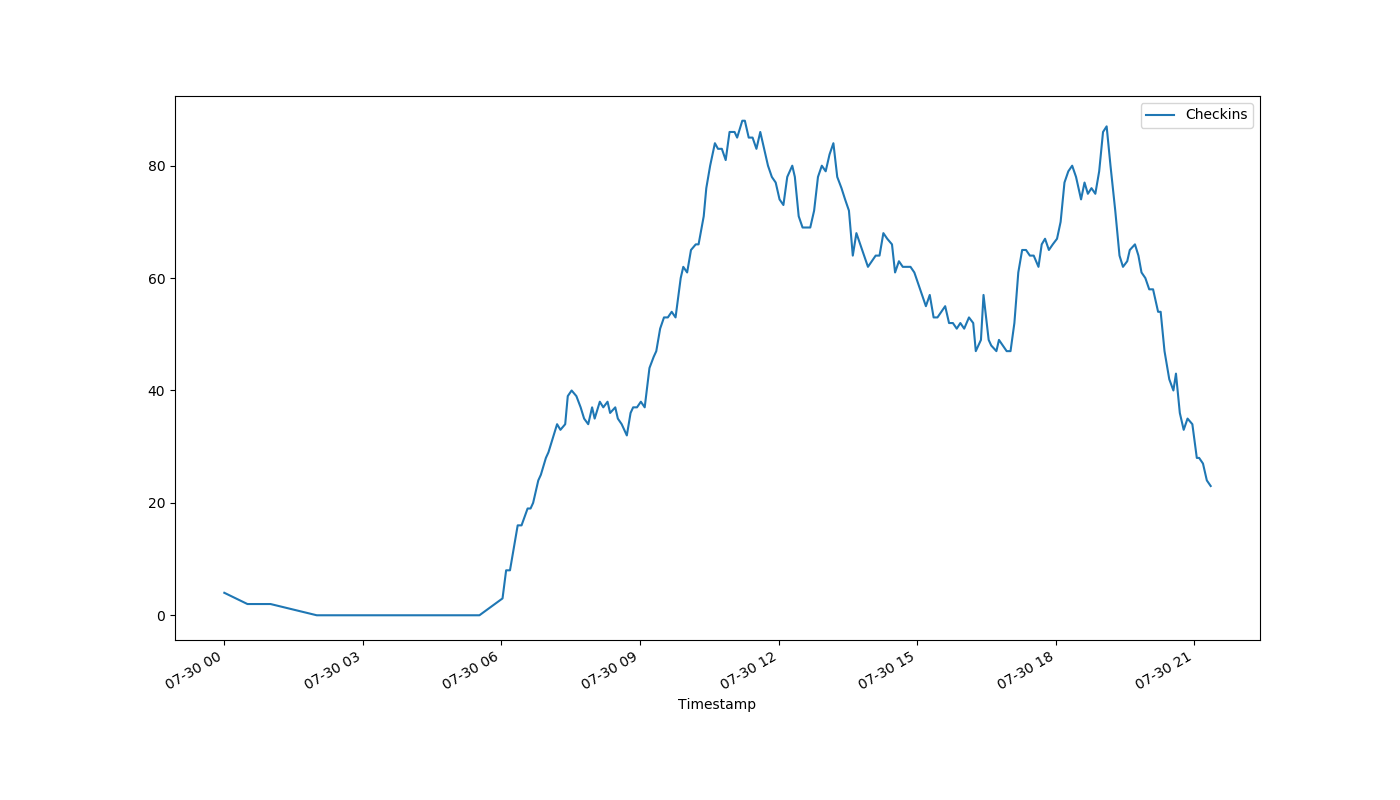
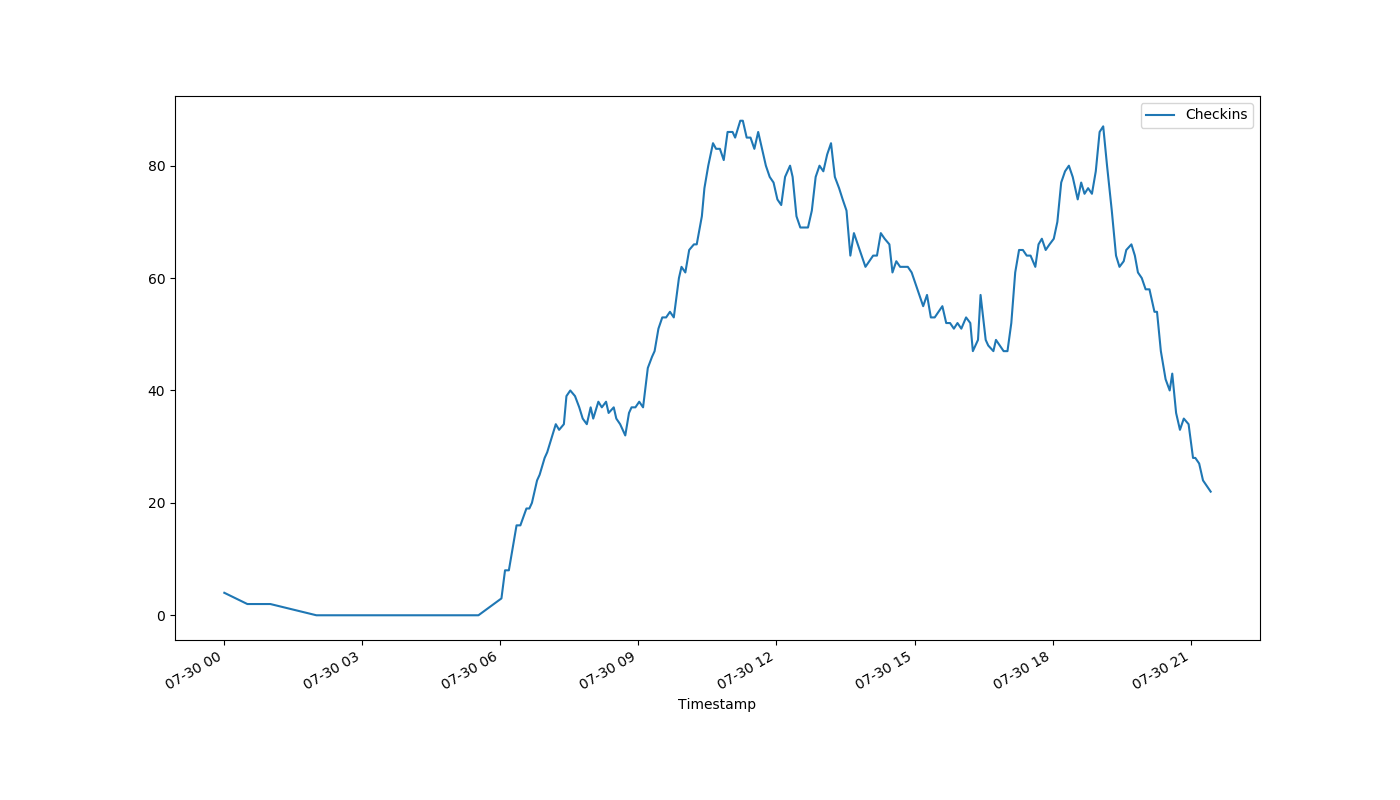
auto-Jul-30-21:26:32

diff --git a/index.html b/index.html
@@ -1,1 +1,1 @@
-<!DOCTYPE html><html><head><meta http-equiv="refresh" content="30"><link rel='stylesheet' href='holmcurrent.css'></head><body><p id='count'>23</p><div id='graph-wrap'><img id='graph' src='holmgraph-Jul-30.png'></div><p id='updated'>Last updated 21:21:16 / 21:21:07</p></body></html>
+<!DOCTYPE html><html><head><meta http-equiv="refresh" content="30"><link rel='stylesheet' href='holmcurrent.css'></head><body><p id='count'>22</p><div id='graph-wrap'><img id='graph' src='holmgraph-Jul-30.png'></div><p id='updated'>Last updated 21:26:16 / 21:26:07</p></body></html>
